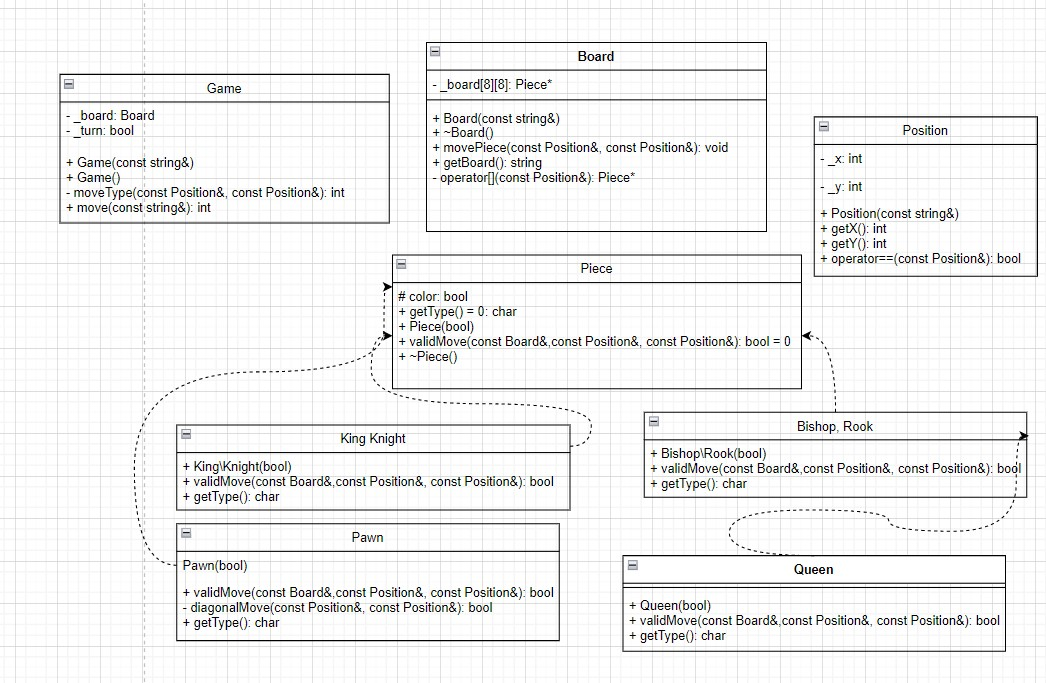
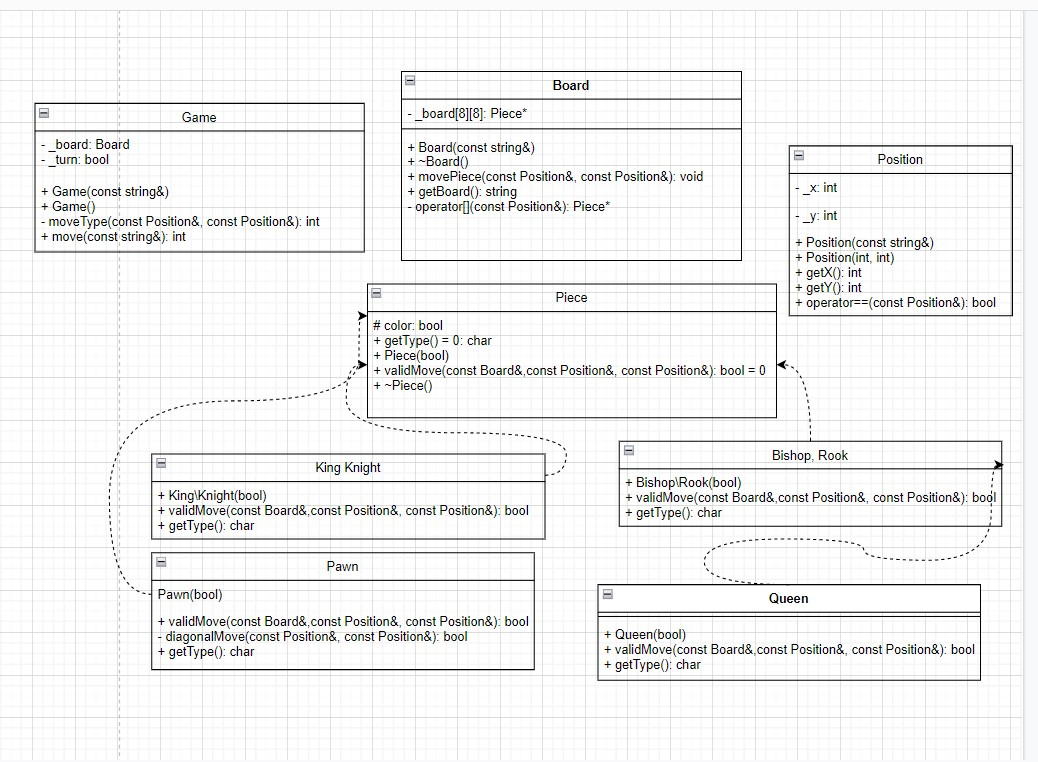
added c'tor for position that accepts ints

diff --git a/Position.cpp b/Position.cpp
@@ -1,10 +1,8 @@
 #include "Position.h"
 
-Position::Position(const std::string& posString)
-{
-	_x = posString[0] - 'a';
-	_y = posString[1] - '1';
-}
+Position::Position(const std::string& posString): Position(posString[0] - 'a', posString[1] - '1') {}
+
+Position::Position(int x, int y): _x(x), _y(y) {}
 
 int Position::getX() const
 {

diff --git a/Position.h b/Position.h
@@ -4,6 +4,7 @@ class Position
 {
 public:
 	Position(const std::string& posString);
+	Position(int x, int y);
 	int getX() const;
 	int getY() const;
 	bool operator==(const Position& other) const;
